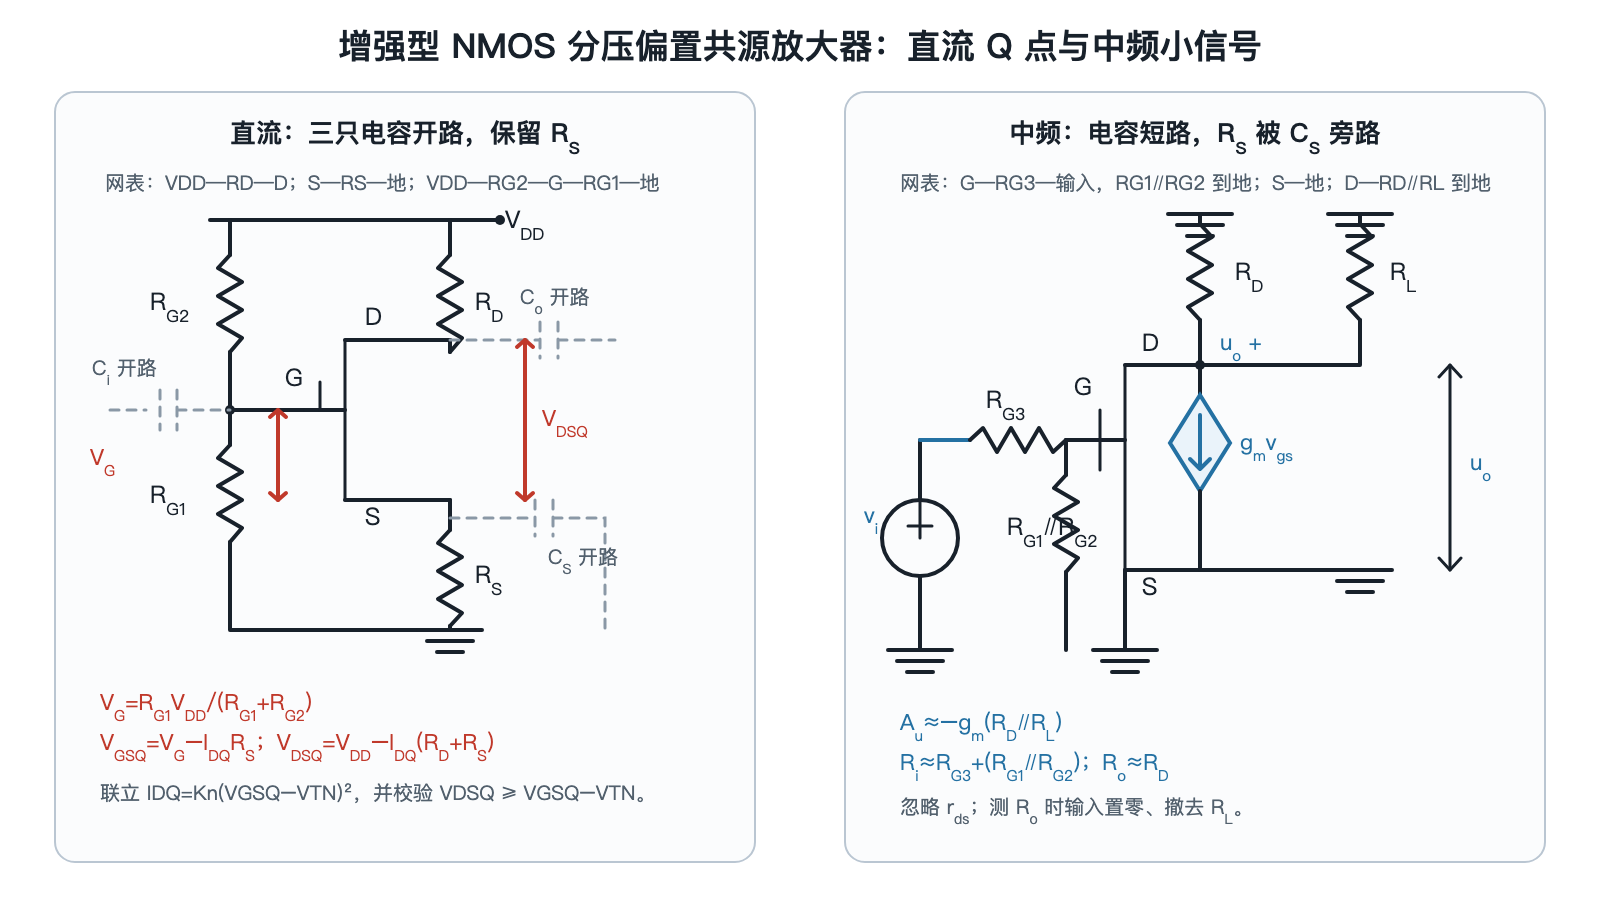
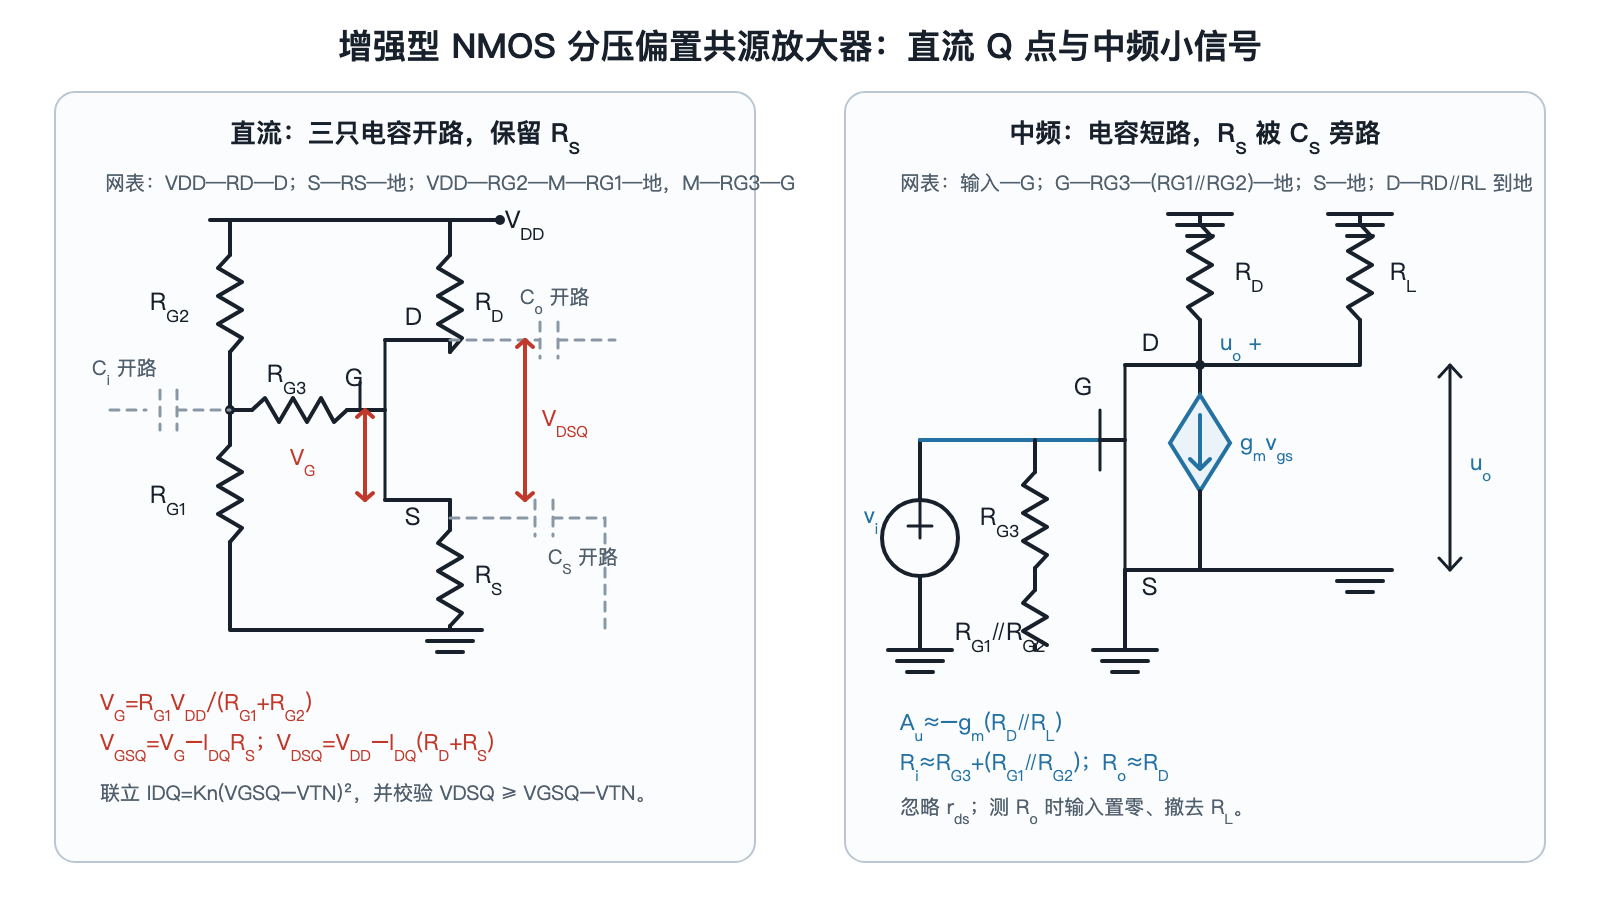
vault backup: 2026-08-06 21:06:28

diff --git a/考研专业课/模拟电子技术/详细笔记/02-场效应管及其放大电路/05-共源小信号分析.md b/考研专业课/模拟电子技术/详细笔记/02-场效应管及其放大电路/05-共源小信号分析.md
@@ -7,7 +7,7 @@ tags:
   - 知识点笔记
 chapter: 02-场效应管及其放大电路
 created: 2026-07-12
-last_updated: 2026-08-05
+last_updated: 2026-08-06
 parent: [[考研专业课/模拟电子技术/详细笔记/02-场效应管及其放大电路/00-章节导读|章节导读]]
 source_note: [[考研专业课/模拟电子技术/详细笔记/02-场效应管及其放大电路|整章版]]
 ---
@@ -91,7 +91,7 @@ $$
 R_i\approx R_{g1}\parallel R_{g2}
 $$
 
-这里要区分两个层次：理想 MOS 栅极电流 $i_g\approx0$，所以**器件栅极本身**输入电阻近似无穷大；实际电路从输入端看到的 $R_i$，由接到交流地的偏置网络决定。若只有一个偏置电阻 $R_G$，则 $R_i\approx R_G$；若是分压偏置，则为 $R_{g1}\parallel R_{g2}$。串联在信号源与栅极之间的电阻不会让栅极吸收电流，只会影响源内阻分压或高频特性。
+这里要区分两个层次：理想 MOS 栅极电流 $i_g\approx0$，所以**器件栅极本身**输入电阻近似无穷大；实际电路从输入端看到的 $R_i$，由接到交流地的偏置网络决定。若只有一个偏置电阻 $R_G$，则 $R_i\approx R_G$；若是分压偏置且栅极直接接在分压中点，则为 $R_{G1}\parallel R_{G2}$。若电阻只是信号源内阻、且不属于从栅极回到交流地的通路，它不改变放大器本身的输入电阻；但下文的 $R_{G3}$ 是偏置回路的一部分，需要计入 $R_i$。
 
 输出电阻：
 
@@ -168,6 +168,56 @@ $$
 | 无 $R_s$ | 差 | 较大 |
 | 有 $R_s$ 且无旁路 | 好 | 下降，$A_v=-\frac{g_mR_d}{1+g_mR_s}$ |
 | 有 $R_s$ 且有旁路 $C_s$ | 好 | 中频近似回到 $A_v=-g_mR_d$ |
+
+### 8.4 分压偏置、$R_S$ 旁路的共源电路
+
+![[考研专业课/模拟电子技术/附件/02-场效应管及其放大电路/手写-增强型NMOS分压偏置共源-02-交流动态指标-2026-08-06.jpg|560]]
+
+手写图对应的电路中，$R_{G3}$ 从栅极连到分压网络，$R_S$ 与旁路电容 $C_S$ 并联。中频交流分析时：$V_{DD}$ 视为交流地，$C_i,C_o,C_S$ 视为短路，因此源极为交流地，$R_D$ 与 $R_L$ 并联。
+
+> [!note] 图的作用
+> 标准直流—交流对照图见上一节的 [[考研专业课/模拟电子技术/附件/02-场效应管及其放大电路/图-增强型NMOS分压偏置共源-直流交流对照|分压偏置共源对照图]]。本页关注右半图：栅极虽近似不取电流，但输入电流会经 $R_{G3}$、$R_{G1}\parallel R_{G2}$ 回到交流地。
+
+因为输入直接加在栅极，且源极已被 $C_S$ 交流接地：
+
+$$
+v_i=v_{gs}
+$$
+
+若忽略 $r_{ds}$：
+
+$$
+v_o=-g_mv_{gs}(R_D\parallel R_L)
+$$
+
+所以：
+
+$$
+A_v=-g_m(R_D\parallel R_L)
+$$
+
+输入端看到的回地路径为：
+
+$$
+R_i=R_{G3}+(R_{G1}\parallel R_{G2})
+$$
+
+求输出电阻时令输入信号源为零，并撤去负载 $R_L$；此时 $v_{gs}=0$、受控源关断：
+
+$$
+R_o\approx R_D
+$$
+
+若需要考虑沟道长度调制，则
+
+$$
+A_v=-g_m(R_D\parallel R_L\parallel r_{ds}),\qquad R_o=R_D\parallel r_{ds}
+$$
+
+> [!warning] 这类题的三处开短路
+> - 直流：$C_i,C_o,C_S$ 都开路，$R_S$ 必须保留在 Q 点方程中。
+> - 中频交流：三只电容近似短路，$R_S$ 被 $C_S$ 旁路，不能再套无旁路时的 $1+g_mR_S$ 分母。
+> - 求 $R_o$：再额外令输入源为零、撤去 $R_L$。
 
 ---
 

diff --git a/考研专业课/模拟电子技术/详细笔记/02-场效应管及其放大电路/04-共源极静态与图解.md b/考研专业课/模拟电子技术/详细笔记/02-场效应管及其放大电路/04-共源极静态与图解.md
@@ -7,7 +7,7 @@ tags:
   - 知识点笔记
 chapter: 02-场效应管及其放大电路
 created: 2026-07-12
-last_updated: 2026-08-05
+last_updated: 2026-08-06
 parent: [[考研专业课/模拟电子技术/详细笔记/02-场效应管及其放大电路/00-章节导读|章节导读]]
 source_note: [[考研专业课/模拟电子技术/详细笔记/02-场效应管及其放大电路|整章版]]
 ---
@@ -136,11 +136,22 @@ $$
 
 ### 6.3 分压偏置共源电路
 
+![[考研专业课/模拟电子技术/附件/02-场效应管及其放大电路/手写-增强型NMOS分压偏置共源-01-直流Q点-2026-08-06.jpg|560]]
+
+![[考研专业课/模拟电子技术/附件/02-场效应管及其放大电路/图-增强型NMOS分压偏置共源-直流交流对照.png|780]]
+
+> [!note] 图的作用：分压决定栅压，$R_S$ 决定静态负反馈
+> 直流时 $C_i,C_o,C_S$ 全部开路，输入源、负载 $R_L$ 与旁路支路都脱开；仅保留 $V_{DD}$、$R_D$、$R_S$ 和分压偏置网络。图中 $R_{G3}$ 接在分压中点与栅极之间，但因 $I_G\approx0$，它没有直流压降，不改变 $V_G$。
+
+#### 6.3.1 按手写图求 Q 点
+
 实际题目常用 $R_{g1},R_{g2}$ 分压来产生栅极电压。因为 $I_G\approx0$，栅极不取电流，所以：
 
 $$
-V_G=\frac{R_{g2}}{R_{g1}+R_{g2}}V_{DD}
+V_G=\frac{R_{G1}}{R_{G1}+R_{G2}}V_{DD}
 $$
+
+这里 $R_{G2}$ 是接 $V_{DD}$ 的上臂，$R_{G1}$ 是接地的下臂；所以分子必须是**下臂电阻 $R_{G1}$**。若题目把上下臂的编号对调，只需按“接地一侧的电阻在分子”判断，不要死记下标。
 
 若源极接地：
 
@@ -157,6 +168,8 @@ $$
 $$
 V_{GSQ}=V_G-I_{DQ}R_s
 $$
+
+由于 $R_{G3}$ 中直流电流为零，上式仍然成立；它不会出现在静态 Q 点方程中。
 
 这时要联立：
 
@@ -179,6 +192,12 @@ $$
 $$
 V_{DSQ}\geq V_{GSQ}-V_{TN}
 $$
+
+> [!tip] 分压偏置静态 SOP
+> 1. 令所有电容开路，去掉输入源和 $R_L$。
+> 2. 用 $V_G=\frac{R_{G1}}{R_{G1}+R_{G2}}V_{DD}$ 求栅压。
+> 3. 联立 $V_{GSQ}=V_G-I_{DQ}R_S$ 与 $I_{DQ}=K_n(V_{GSQ}-V_{TN})^2$。
+> 4. 算 $V_{DSQ}=V_{DD}-I_{DQ}(R_D+R_S)$，最后校验恒流区。
 
 ---
 
